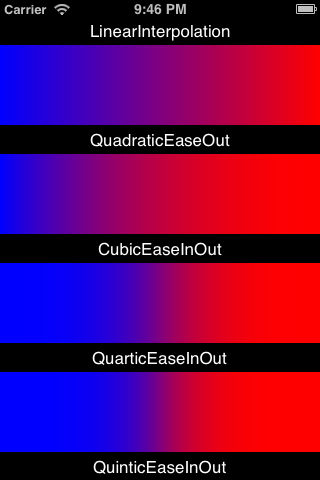
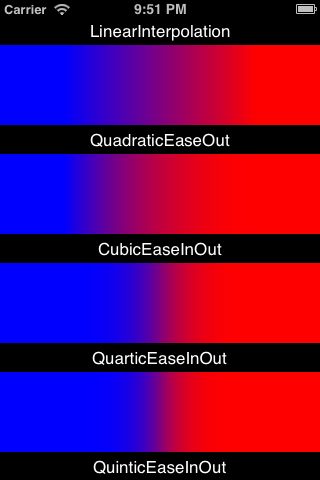
Change start/end points so you can see continuation.

diff --git a/HTGradientEasingDemo/HTGradientEasingDemo/HTView.m b/HTGradientEasingDemo/HTGradientEasingDemo/HTView.m
@@ -50,8 +50,8 @@ static CGFloat const kGradientHeight = 80;
                                 locations:@[@0, @1]
                            easingFunction:easingFunction
                 keyframesBetweenLocations:32];
-    gradientLayer.startPoint = CGPointMake(0, 0.5);
-    gradientLayer.endPoint = CGPointMake(1, 0.5);
+    gradientLayer.startPoint = CGPointMake(0.2, 0.5);
+    gradientLayer.endPoint = CGPointMake(0.8, 0.5);
     [self.layer addSublayer:gradientLayer];
     [self.gradientLayers addObject:gradientLayer];
     
